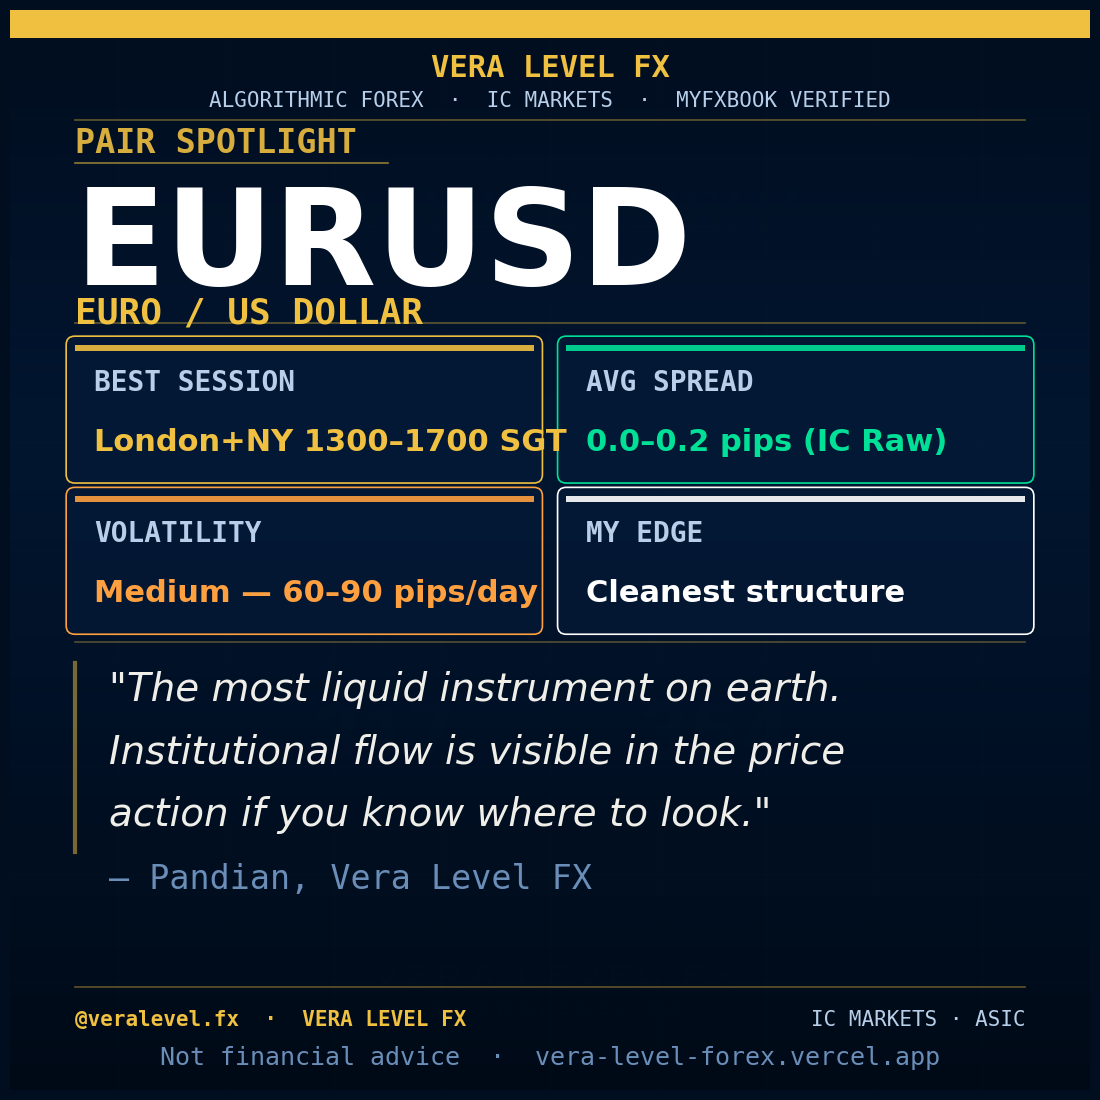
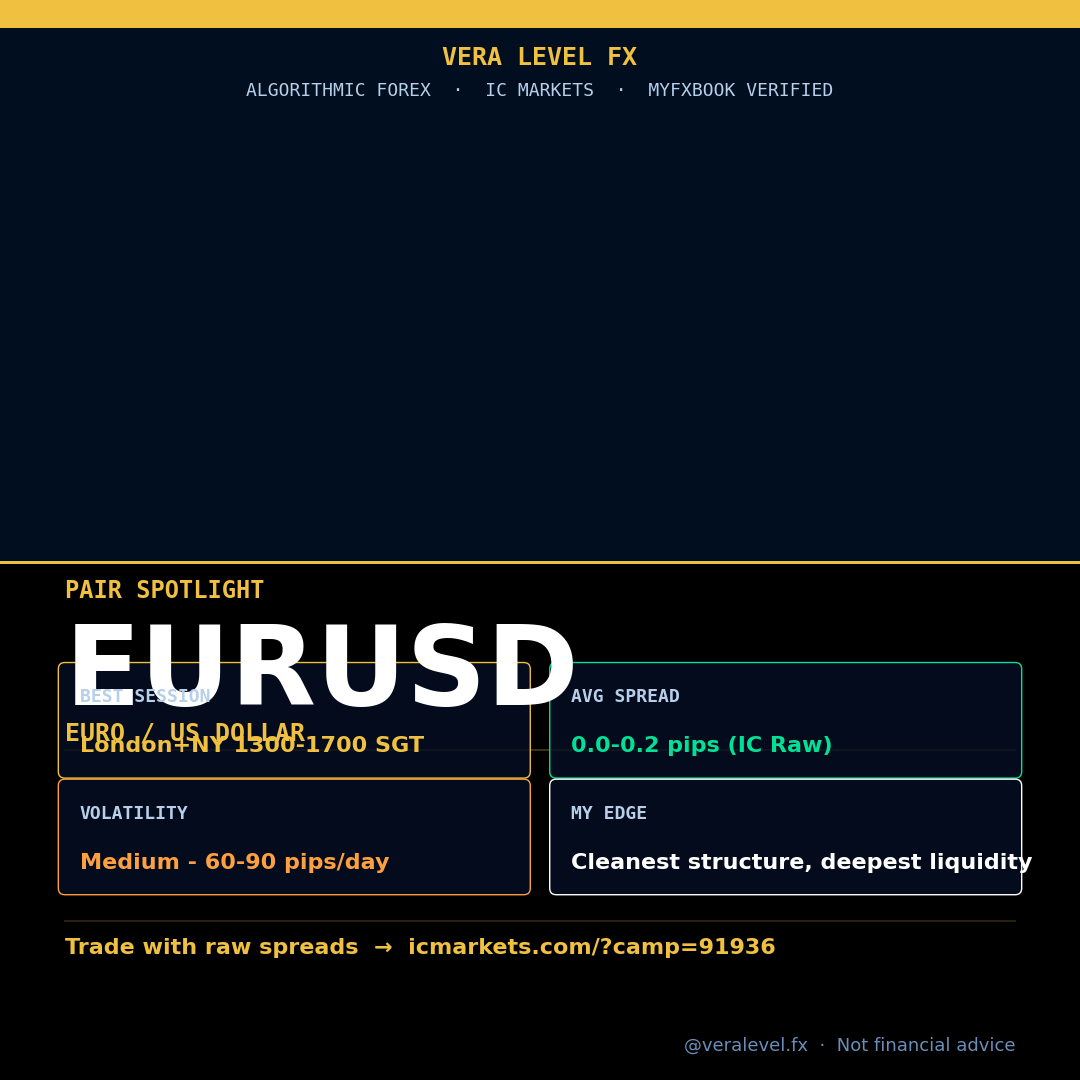
assets: update background images and post designs

diff --git a/instagram/generate_status.py b/instagram/generate_status.py
@@ -162,13 +162,15 @@ def make_daily_card(data: dict):
             profit  = trade.get('profit', 0)
             t_pips  = trade.get('pips', 0)
             entry   = trade.get('openPrice', 0)
-            p_color = GREEN if profit >= 0 else RED
+            p_color   = GREEN if profit >= 0 else RED
+            dir_color = GREEN if 'BUY' in action else RED
+            pip_color = GREEN if t_pips >= 0 else RED
 
-            ax.text(col_x['pair'],  ry, pair,              fontsize=19, fontweight='bold', color=WHITE,   ha='left',   va='center', transform=ax.transAxes, zorder=6)
-            ax.text(col_x['dir'],   ry, action[:3],        fontsize=17, fontweight='bold', color=WHITE,   ha='center', va='center', transform=ax.transAxes, zorder=6)
-            ax.text(col_x['pnl'],   ry, f'{profit:+.0f}',  fontsize=17, fontweight='bold', color=WHITE,   ha='center', va='center', transform=ax.transAxes, zorder=6)
-            ax.text(col_x['pips'],  ry, _fmt_pips(t_pips), fontsize=17, color=WHITE,       ha='center', va='center', transform=ax.transAxes, zorder=6)
-            ax.text(col_x['entry'], ry, _fmt_price(entry), fontsize=16, color=WHITE,        ha='center', va='center', transform=ax.transAxes, fontfamily='monospace', zorder=6)
+            ax.text(col_x['pair'],  ry, pair,              fontsize=19, fontweight='bold', color=WHITE,     ha='left',   va='center', transform=ax.transAxes, zorder=6)
+            ax.text(col_x['dir'],   ry, action[:3],        fontsize=17, fontweight='bold', color=dir_color, ha='center', va='center', transform=ax.transAxes, zorder=6)
+            ax.text(col_x['pnl'],   ry, f'{profit:+.0f}',  fontsize=17, fontweight='bold', color=p_color,   ha='center', va='center', transform=ax.transAxes, zorder=6)
+            ax.text(col_x['pips'],  ry, _fmt_pips(t_pips), fontsize=17, color=pip_color,   ha='center', va='center', transform=ax.transAxes, zorder=6)
+            ax.text(col_x['entry'], ry, _fmt_price(entry), fontsize=16, color=MUTED,        ha='center', va='center', transform=ax.transAxes, fontfamily='monospace', zorder=6)
             if r < len(rows) - 1:
                 ax.plot([0.06, 0.94], [ry - 0.026, ry - 0.026],
                         color=GOLD, linewidth=0.5, alpha=0.15,

diff --git a/instagram/generate.py b/instagram/generate.py
@@ -196,7 +196,11 @@ def make_monthly_chart(data):
         date_s = item[0] if isinstance(item, list) else item.get('date', '')
         val    = item[1] if isinstance(item, list) else item.get('value', 0)
         try:
-            dt  = datetime.fromisoformat(str(date_s)[:10])
+            ds = str(date_s)
+            try:
+                dt = datetime.fromisoformat(ds[:10])
+            except ValueError:
+                dt = datetime.strptime(ds, '%m/%d/%Y')
             key = dt.strftime('%b %y')
             monthly_pnl[key] = monthly_pnl.get(key, 0) + float(val)
         except Exception:

diff --git a/instagram/composer.py b/instagram/composer.py
@@ -98,7 +98,7 @@ def split_layout(
     H = arr.shape[0]
     split_px = int(H * split_frac)
 
-    arr[split_px:] = 0.0
+    arr[split_px:] = _NAVY_RGB
 
     gold = np.array([0.941, 0.753, 0.251], dtype=np.float32)
     arr[split_px:split_px + 3] = gold
